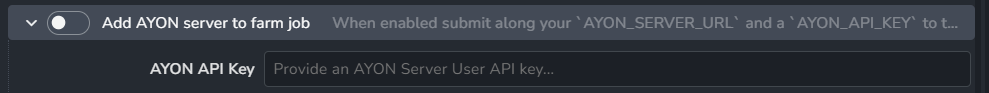
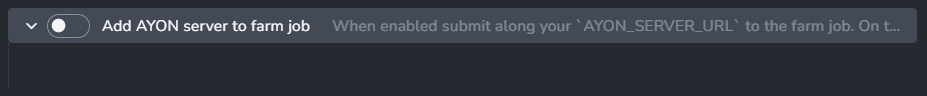
update `Add AYON server to farm job` to match the updates in the PR

diff --git a/website/docs/addon_deadline_admin.md b/website/docs/addon_deadline_admin.md
@@ -121,7 +121,16 @@ It submits a dependent AYON Job to publish the rendered images.
 
 ![](assets/deadline/add_ayon_server_to_farm_job.png)
 
-When enabled submit along your `AYON_SERVER_URL` and the `AYON_API_KEY` specified in the setting to the job so you can enforce your current server even if Deadline AYON plugin configuration (`Deadline monitor > Tools > Configure Plugins > AYON`) is configured for another AYON server. This can be useful for example for submissions from a separate AYON dev server.
+:::tip
+This feature is handy for submissions from a separate AYON dev server.
+:::
+
+When enabled, submit your current `AYON_SERVER_URL` with the job to enforce using your current server. This requires modifying the Deadline AYON plugin configuration (`Deadline monitor > Tools > Configure Plugins > AYON`) to add additional AYON servers.
+
+Additional servers should follow this format: `{server url}@{token}`, e.g., `http://11.2.3.47@myapikey1`.
+
+![](assets/deadline/additional_ayon_servers.png)
+
 
 
 ## Troubleshooting
